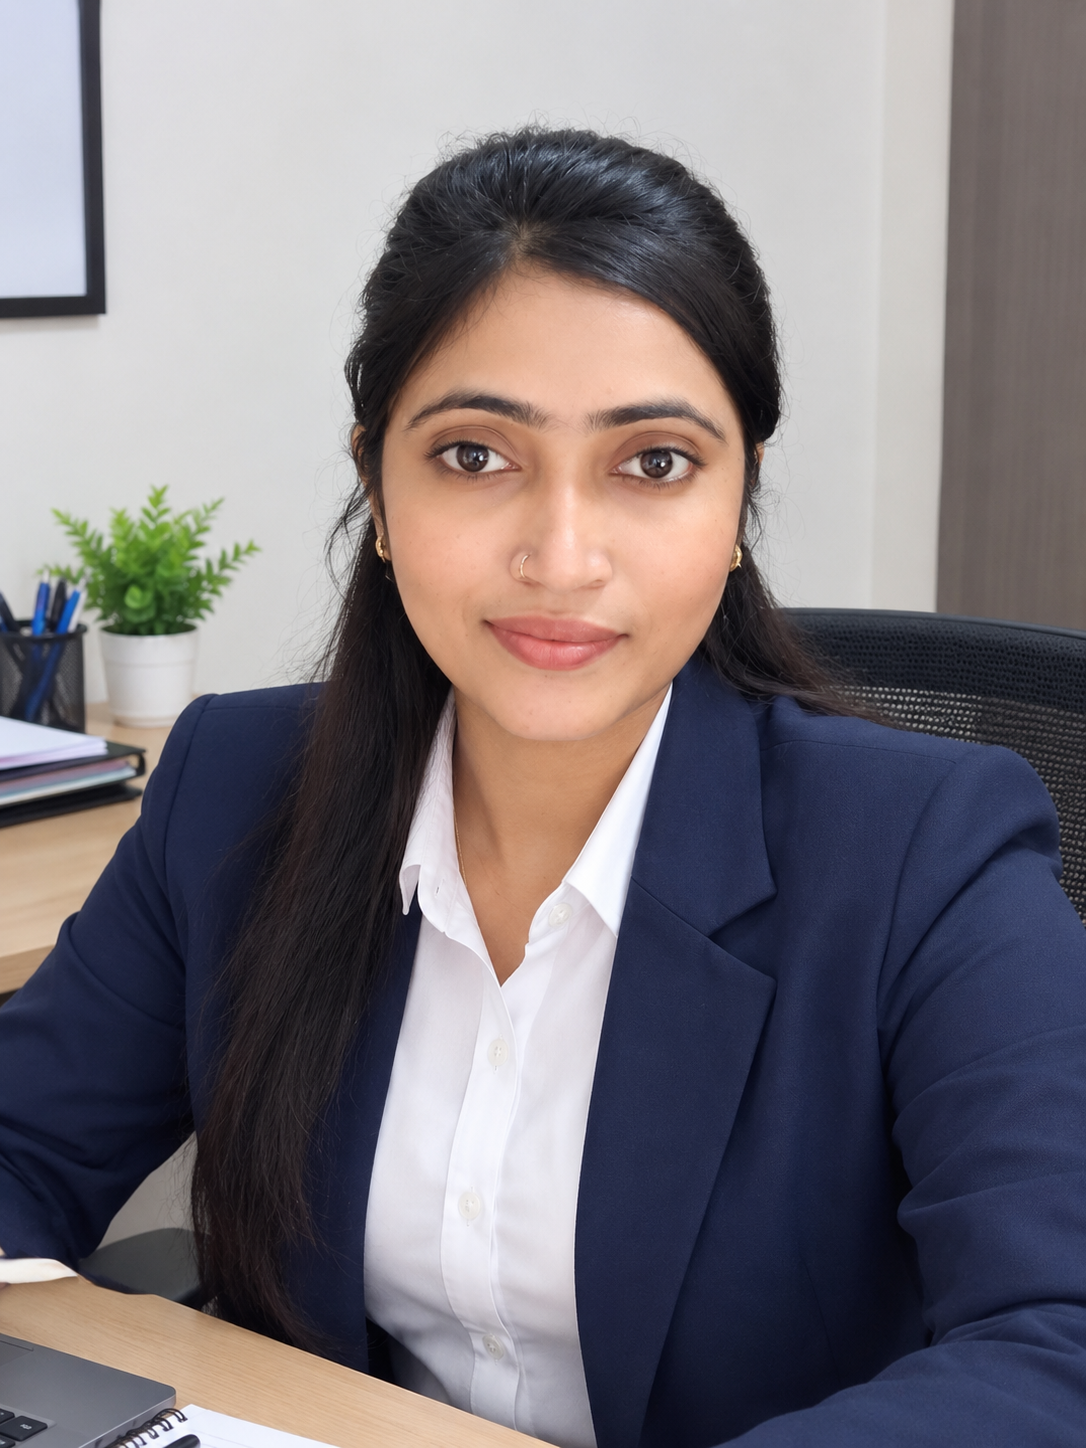
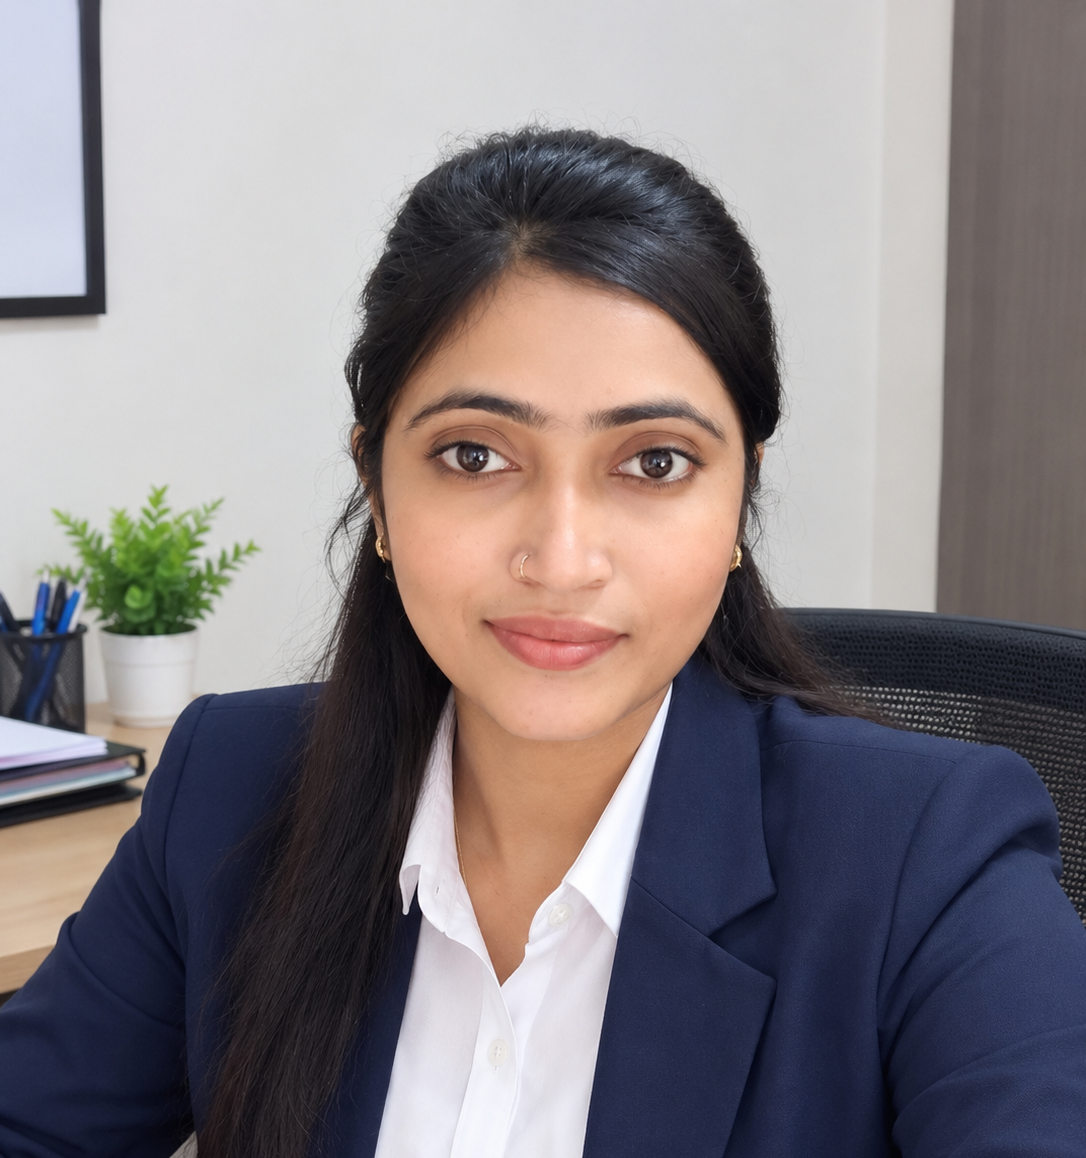
updated the photo

diff --git a/src/app/about/page.tsx b/src/app/about/page.tsx
@@ -93,7 +93,7 @@ const team = [
     name: "Kiyanshu Ratre",
     role: "Team Leader",
     category: "sales",
-    image: "https://images.unsplash.com/photo-1500648767791-00dcc994a43e?w=400&h=400&fit=crop",
+    image: "/images/kiyanshu_ratre.jpeg",
   },
   {
     name: "G K Yadav",
@@ -111,7 +111,7 @@ const team = [
     name: "Manish Yadav",
     role: "Team Leader",
     category: "sales",
-    image: "/images/sonu_thakur.png",
+    image: "/images/manish_yadav.png",
   },
   // Accountant
   {
